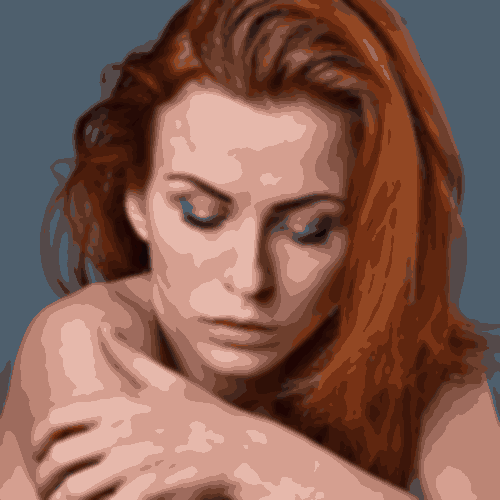
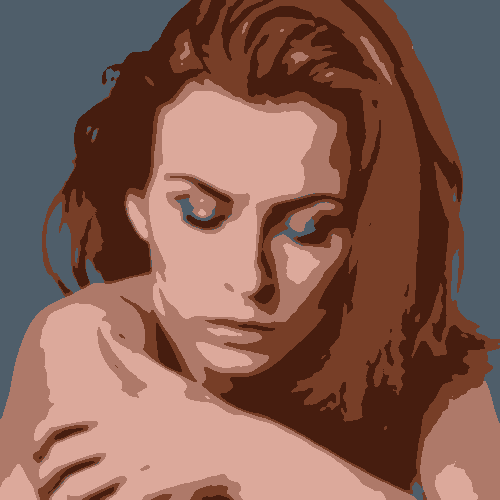
Add information

diff --git a/src/lib.rs b/src/lib.rs
@@ -4,26 +4,15 @@ use image::GenericImageView;
 
 pub use cgmath::num_traits::NumCast;
 
-fn main() {
-    let img = image::open("p5.jpg").unwrap();
-
-    // let img = img.grayscale();
-    let img = img.blur(2.);
-
-    let mut kms = KMeansSegmentation::new(img, 37);
-    while (kms.iteration()) > 0 {}
-    kms.overlay_color().save("out2.png").unwrap();
-}
-
-struct KMeansSegmentation {
-    n_clusters: usize,
-    image: image::DynamicImage,
-    mean_colors: Vec<[u8; 3]>,
-    cluster_assignment: Vec<Vec<Option<usize>>>,
+pub struct KMeansSegmentation {
+    pub n_clusters: usize,
+    pub image: image::DynamicImage,
+    pub mean_colors: Vec<[u8; 3]>,
+    pub cluster_assignment: Vec<Vec<Option<usize>>>,
 }
 
 impl KMeansSegmentation {
-    fn new(image: image::DynamicImage, n_clusters: usize) -> KMeansSegmentation {
+    pub fn new(image: image::DynamicImage, n_clusters: usize) -> KMeansSegmentation {
         let mean_colors = vec![[255, 255, 255]; n_clusters];
         let (w, h) = image.dimensions();
         let cluster_assignment = vec![vec![None; h as usize]; w as usize];
@@ -63,7 +52,7 @@ impl KMeansSegmentation {
             .sqrt()
     }
 
-    fn iteration(&mut self) -> usize {
+    pub fn iteration(&mut self) -> usize {
         let mut changed = 0;
         let mut totals = vec![1.; self.n_clusters];
         let mut ctotals = vec![[0., 0., 0.]; self.n_clusters];
@@ -115,7 +104,7 @@ impl KMeansSegmentation {
         changed
     }
 
-    fn overlay(&self) -> image::DynamicImage {
+    pub fn overlay(&self) -> image::DynamicImage {
         let (w, h) = self.image.dimensions();
         // let o = image::ImageBuffer::new(w, h);
         let mut o = image::DynamicImage::new_rgb8(w, h);
@@ -156,7 +145,7 @@ impl KMeansSegmentation {
         o
     }
 
-    fn overlay_color(&self) -> image::DynamicImage {
+    pub fn overlay_color(&self) -> image::DynamicImage {
         let (w, h) = self.image.dimensions();
         let mut o = image::DynamicImage::new_rgb8(w, h);
 

diff --git a/examples/color.rs b/examples/color.rs
@@ -1,0 +1,12 @@
+use k_clustering::*;
+
+fn main() {
+    let img = image::open("in.jpg").unwrap();
+
+    // let img = img.grayscale();
+    let img = img.blur(2.);
+
+    let mut kms = KMeansSegmentation::new(img, 5);
+    while (kms.iteration()) > 0 {}
+    kms.overlay_color().save("out.png").unwrap();
+}

diff --git a/README.md b/README.md
@@ -1,1 +1,24 @@
-# k-clustering
+# Value Sketches Using k-Means Clustering
+
+## Usage
+
+```Rust
+use k_clustering::*;
+
+fn main() {
+    let img = image::open("p5.jpg").unwrap();
+
+    // let img = img.grayscale();
+    let img = img.blur(2.);
+
+    let mut kms = KMeansSegmentation::new(img, 5);
+    while (kms.iteration()) > 0 {}
+    kms.overlay_color().save("out2.png").unwrap();
+}
+```
+
+<p>
+ <img src=./p5.jpg width="200" height="200">
+ <img src=./out2.png width="200" height="200">
+ <img src=./out3.png width="200" height="200">
+</p>
